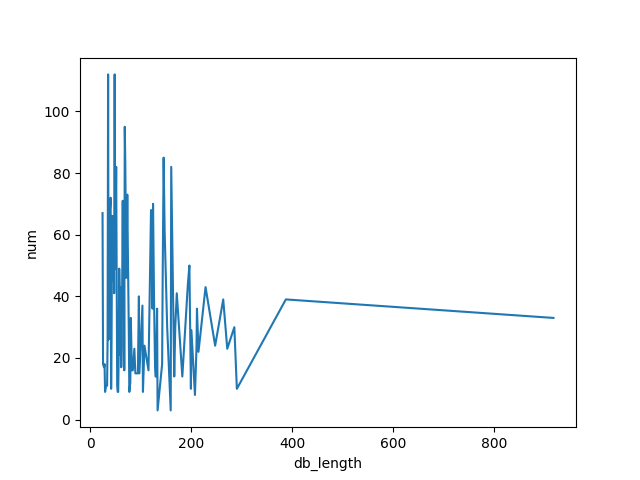
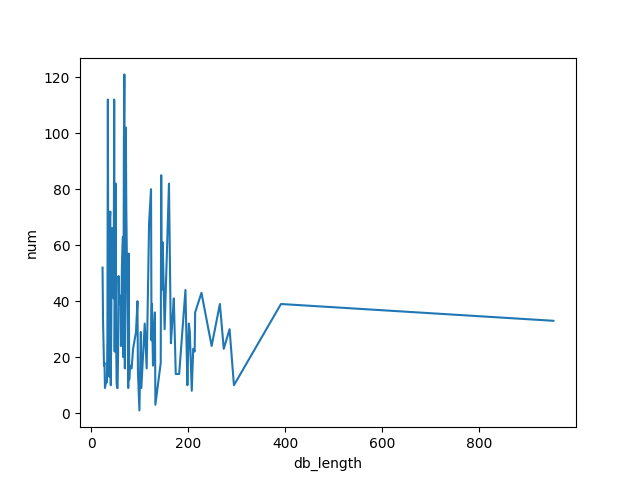
wordninja

diff --git a/dataset/dataset.py b/dataset/dataset.py
@@ -2,6 +2,7 @@ import json
 import pickle
 import os
 import re
+import wordninja
 from torch.utils.data import Dataset
 import matplotlib.pyplot as plt
 from collections import Counter
@@ -202,16 +203,21 @@ class ATIS_DataSetLoad():
                         table = item[:cut]
                         column = item[(cut + 1):]
                     cut += 1
-                table = re.split('[ _]', table.lower())
+                table_0 = re.split('[ _]', table.lower())
                 column_0 = re.split('[ _]', column.lower())
+                table = []
                 column = []
-                for item in column_0:
+                '''
                     if item == 'departmentid':
                         column += ['department', 'id']
                     elif item == 'appointmentid':
                         column += ['appointment', 'id']
                     else:
-                        column += [item]
+                '''
+                for item in column_0:
+                    column += wordninja.split(item)
+                for item in table_0:
+                    table += wordninja.split(item)
                 # 给出source样式
                 split_word = ''
                 for word in table:
@@ -246,9 +252,9 @@ class ATIS_DataSetLoad():
             split_word = ''
             for word in words:
                 split_word += word + ' '
+                content += wordninja.split(word)
             split_word = split_word[:-1]
             source.append(split_word)
-            content += words
         temporal = [turn for _ in content]
         modality = [4 for _ in content]
         db = [0 for _ in content]
@@ -281,12 +287,7 @@ class ATIS_DataSetLoad():
             split_column_0 = re.split('[ _]', column[1].lower())
             split_column = []
             for item in split_column_0:
-                if item == 'departmentid':
-                    split_column += ['department', 'id']
-                elif item == 'appointmentid':
-                    split_column += ['appointment', 'id']
-                else:
-                    split_column += [item]
+                split_column += wordninja.split(item)
             split_database['tokens'] += ['[SEP]']
             split_database['tokens'] += split_column
             split_database['db_signal'] += [0]
